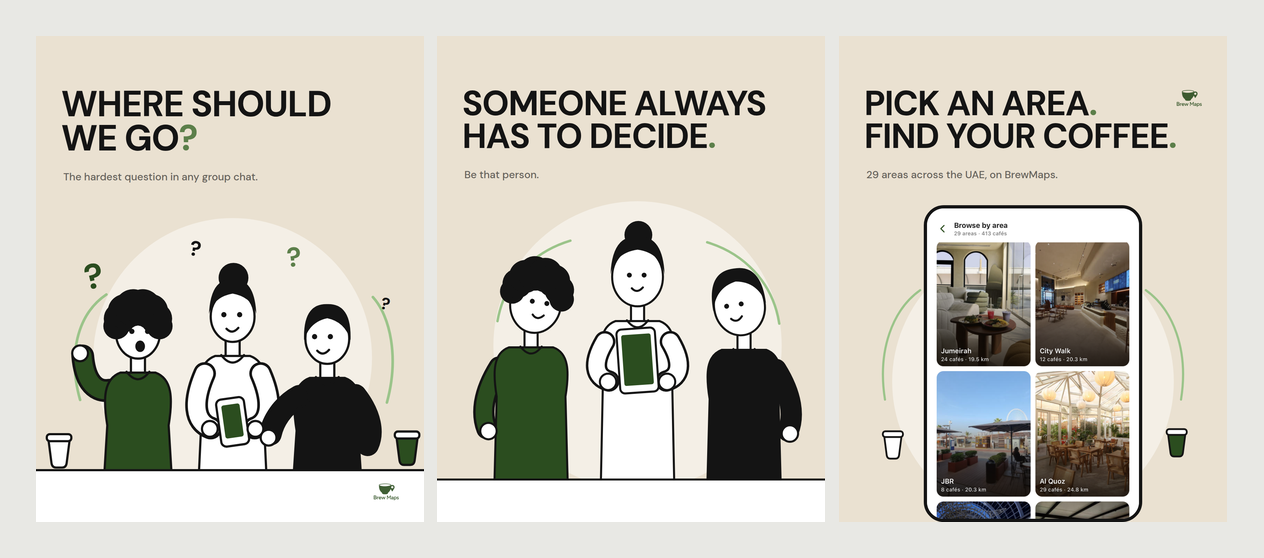
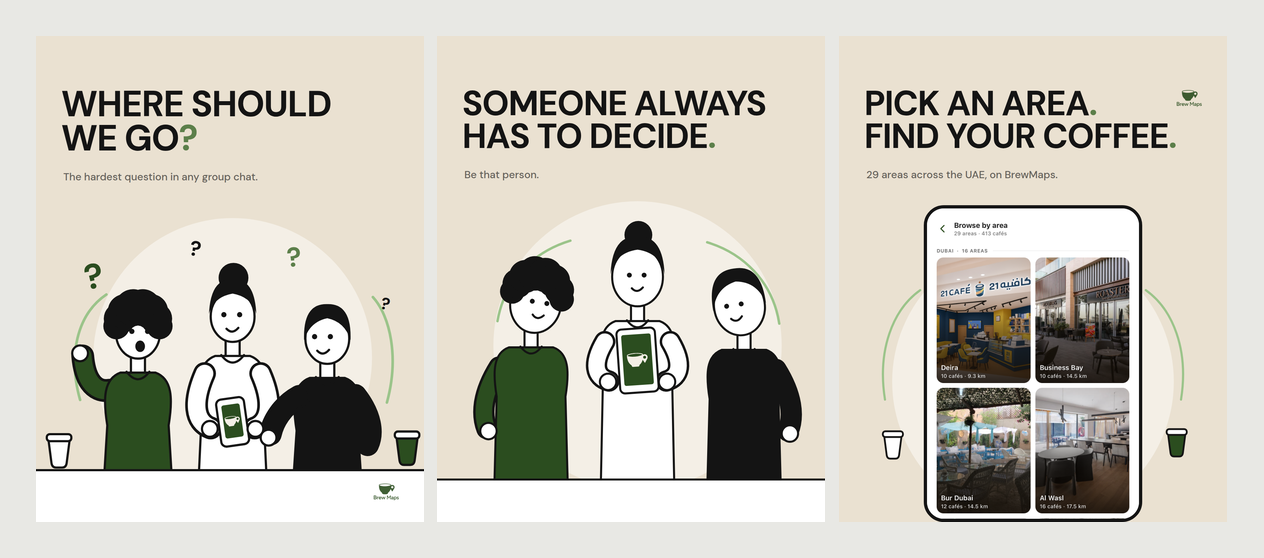
Put the BrewMaps mark on the illustrated phone, swap slide 3 screen
The drawn phone now carries the cup mark in cream on slides 1 and 2, so
the object the group is looking at is recognisably the app before slide
3 reveals it. Slide 3 moves to the Dubai section of Browse by area:
Deira, Business Bay, Bur Dubai and Al Wasl, a full grid with no gaps.

Claude-Session: https://claude.ai/code/session_01UCKVHF8Bj15Neb29ir5cAN

Changed region(s): [[0.7405, 0.4265, 0.8948, 0.9444], [0.4937, 0.6398, 0.5245, 0.6703], [0.1543, 0.7312, 0.1851, 0.7616]]

diff --git a/marketing/instagram/2026-09-where-should-we-go/source/illo-2.html b/marketing/instagram/2026-09-where-should-we-go/source/illo-2.html
@@ -22,7 +22,7 @@
 <ellipse cx="556" cy="738" rx="62" ry="72" fill="#FFFFFF" stroke="#141414" stroke-width="5"/><circle cx="558" cy="636" r="34" fill="#141414"/><path d="M 490,732 Q 494,636 556,640 Q 618,636 622,732 Q 612,680 556,672 Q 500,680 490,732 Z" fill="#141414"/><circle cx="536" cy="734" r="6" fill="#141414"/><circle cx="572" cy="734" r="6" fill="#141414"/><path d="M 542,766 Q 555,780 569,764" fill="none" stroke="#141414" stroke-width="5" stroke-linecap="round"/>
 <path d="M 476,896 C 444,950 452,982 486,992" fill="none" stroke="#141414" stroke-width="52" stroke-linecap="round" stroke-linejoin="round"/><path d="M 476,896 C 444,950 452,982 486,992" fill="none" stroke="#FFFFFF" stroke-width="40" stroke-linecap="round" stroke-linejoin="round"/>
 <path d="M 636,896 C 668,950 660,982 626,992" fill="none" stroke="#141414" stroke-width="52" stroke-linecap="round" stroke-linejoin="round"/><path d="M 636,896 C 668,950 660,982 626,992" fill="none" stroke="#FFFFFF" stroke-width="40" stroke-linecap="round" stroke-linejoin="round"/>
-<g transform="rotate(-4 556 942)"><rect x="509.0" y="864.0" width="94" height="156" rx="12" fill="#FFFFFF" stroke="#141414" stroke-width="5"/><rect x="520.0" y="878.0" width="72" height="124" rx="5" fill="#2B4D1F"/></g>
+<g transform="rotate(-4 556 942)"><rect x="509.0" y="864.0" width="94" height="156" rx="12" fill="#FFFFFF" stroke="#141414" stroke-width="5"/><rect x="520.0" y="878.0" width="72" height="124" rx="5" fill="#2B4D1F"/><image href="src/mark-cream.png" x="530.62" y="923.1920529801324" width="50.760000000000005" height="33.6158940397351"/></g>
 <circle cx="484" cy="994" r="20" fill="#FFFFFF" stroke="#141414" stroke-width="5"/><circle cx="628" cy="994" r="20" fill="#FFFFFF" stroke="#141414" stroke-width="5"/>
 
 <path d="M 0,1232 L 1080,1232 L 1080,1350 L 0,1350 Z" fill="#FFFFFF" stroke="none"/>

diff --git a/marketing/instagram/2026-09-where-should-we-go/source/illo-1.html b/marketing/instagram/2026-09-where-should-we-go/source/illo-1.html
@@ -27,7 +27,7 @@
 <path d="M 482,986 C 454,1050 458,1096 496,1110" fill="none" stroke="#141414" stroke-width="52" stroke-linecap="round" stroke-linejoin="round"/><path d="M 482,986 C 454,1050 458,1096 496,1110" fill="none" stroke="#FFFFFF" stroke-width="40" stroke-linecap="round" stroke-linejoin="round"/>
 <path d="M 610,986 C 638,1050 634,1096 596,1110" fill="none" stroke="#141414" stroke-width="52" stroke-linecap="round" stroke-linejoin="round"/><path d="M 610,986 C 638,1050 634,1096 596,1110" fill="none" stroke="#FFFFFF" stroke-width="40" stroke-linecap="round" stroke-linejoin="round"/>
 <path d="M 698,1038 C 658,1060 638,1096 632,1124" fill="none" stroke="#141414" stroke-width="52" stroke-linecap="round" stroke-linejoin="round"/><path d="M 698,1038 C 658,1060 638,1096 632,1124" fill="none" stroke="#141414" stroke-width="40" stroke-linecap="round" stroke-linejoin="round"/>
-<g transform="rotate(-8 546 1096)"><rect x="514.0" y="1042.0" width="64" height="108" rx="12" fill="#FFFFFF" stroke="#141414" stroke-width="5"/><rect x="525.0" y="1056.0" width="42" height="76" rx="5" fill="#2B4D1F"/></g>
+<g transform="rotate(-8 546 1096)"><rect x="514.0" y="1042.0" width="64" height="108" rx="12" fill="#FFFFFF" stroke="#141414" stroke-width="5"/><rect x="525.0" y="1056.0" width="42" height="76" rx="5" fill="#2B4D1F"/><image href="src/mark-cream.png" x="528.72" y="1082.5562913907286" width="34.56" height="22.887417218543046"/></g>
 <circle cx="494" cy="1112" r="18" fill="#FFFFFF" stroke="#141414" stroke-width="5"/><circle cx="598" cy="1112" r="18" fill="#FFFFFF" stroke="#141414" stroke-width="5"/>
 <circle cx="628" cy="1132" r="18" fill="#FFFFFF" stroke="#141414" stroke-width="5"/>
 <circle cx="198" cy="940" r="18" fill="#FFFFFF" stroke="#141414" stroke-width="5"/>

diff --git a/marketing/instagram/2026-09-where-should-we-go/source/illo-3.html b/marketing/instagram/2026-09-where-should-we-go/source/illo-3.html
@@ -11,5 +11,5 @@
 </svg></div>
 <h1 class="h abs" style="left:70px;top:142px;font-size:96px;color:#141414;">Pick an area<span style="color:#5C7F4A">.</span><br>Find your coffee<span style="color:#5C7F4A">.</span></h1>
 <div class="abs" style="left:76px;top:366px;font-size:29px;font-weight:500;opacity:.62;">29 areas across the UAE, on BrewMaps.</div>
-<div class="screen"><img src="src/browse-top.png"></div>
+<div class="screen"><img src="src/browse-dubai.png"></div>
 <img class="abs" src="src/logo-green.png" style="right:70px;top:150px;width:70px;opacity:.9;">

diff --git a/marketing/instagram/2026-09-where-should-we-go/source/illo.py b/marketing/instagram/2026-09-where-should-we-go/source/illo.py
@@ -58,10 +58,14 @@ def arm(d,fill,w=40):
 def hand(x,y,r=20):
     return f'<circle cx="{x}" cy="{y}" r="{r}" fill="{WHITE}" stroke="{LINE}" stroke-width="{SW}"/>'
 
-def phone(x,y,w=64,h=108,tilt=-8):
-    return (f'<g transform="rotate({tilt} {x} {y})">'
-            f'<rect x="{x-w/2}" y="{y-h/2}" width="{w}" height="{h}" rx="12" fill="{WHITE}" stroke="{LINE}" stroke-width="{SW}"/>'
-            f'<rect x="{x-w/2+11}" y="{y-h/2+14}" width="{w-22}" height="{h-32}" rx="5" fill="{GREEN}"/></g>')
+def phone(x,y,w=64,h=108,tilt=-8,icon=None):
+    g=(f'<g transform="rotate({tilt} {x} {y})">'
+       f'<rect x="{x-w/2}" y="{y-h/2}" width="{w}" height="{h}" rx="12" fill="{WHITE}" stroke="{LINE}" stroke-width="{SW}"/>'
+       f'<rect x="{x-w/2+11}" y="{y-h/2+14}" width="{w-22}" height="{h-32}" rx="5" fill="{GREEN}"/>')
+    if icon:
+        iw=w*0.54; ih=iw/1.51
+        g+=f'<image href="{icon}" x="{x-iw/2}" y="{y-ih/2-2}" width="{iw}" height="{ih}"/>'
+    return g+'</g>' 
 
 def cup(x,y,fill=WHITE,s=1.0):
     w=24*s; h=52*s

diff --git a/marketing/instagram/2026-09-where-should-we-go/source/gen_illo3.py b/marketing/instagram/2026-09-where-should-we-go/source/gen_illo3.py
@@ -13,6 +13,6 @@ html=f'''<link rel="stylesheet" href="base.css">
 <div class="abs" style="left:0;top:0;">{svg}</div>
 <h1 class="h abs" style="left:70px;top:142px;font-size:96px;color:{LINE};">Pick an area<span style="color:{MID}">.</span><br>Find your coffee<span style="color:{MID}">.</span></h1>
 <div class="abs" style="left:76px;top:366px;font-size:29px;font-weight:500;opacity:.62;">29 areas across the UAE, on BrewMaps.</div>
-<div class="screen"><img src="src/browse-top.png"></div>
+<div class="screen"><img src="src/browse-dubai.png"></div>
 <img class="abs" src="src/logo-green.png" style="right:70px;top:150px;width:70px;opacity:.9;">'''
 open('illo-3.html','w').write(html)

diff --git a/marketing/instagram/2026-09-where-should-we-go/source/gen_illo2.py b/marketing/instagram/2026-09-where-should-we-go/source/gen_illo2.py
@@ -32,7 +32,7 @@ scene=f'''
 {head(B,Bh,RX,RY)}{bun(B,Bh,RX,RY)}{face(B,Bh,look=0)}
 {arm(f'M {B-80},{Bs+50} C {B-112},{Bs+104} {B-104},{Bs+136} {B-70},{Bs+146}', WHITE)}
 {arm(f'M {B+80},{Bs+50} C {B+112},{Bs+104} {B+104},{Bs+136} {B+70},{Bs+146}', WHITE)}
-{phone(B,Bs+96,94,156,-4)}
+{phone(B,Bs+96,94,156,-4,icon="src/mark-cream.png")}
 {hand(B-72,Bs+148,20)}{hand(B+72,Bs+148,20)}
 
 <path d="M 0,{TOP} L 1080,{TOP} L 1080,1350 L 0,1350 Z" fill="{WHITE}" stroke="none"/>

diff --git a/marketing/instagram/2026-09-where-should-we-go/source/gen_illo.py b/marketing/instagram/2026-09-where-should-we-go/source/gen_illo.py
@@ -33,7 +33,7 @@ scene=f'''
 {arm(f'M {B-64},{Bs+40} C {B-92},{Bs+104} {B-88},{Bs+150} {B-50},{Bs+164}', WHITE)}
 {arm(f'M {B+64},{Bs+40} C {B+92},{Bs+104} {B+88},{Bs+150} {B+50},{Bs+164}', WHITE)}
 {arm(f'M {C-64},{Cs+42} C {C-104},{Cs+64} {C-124},{Cs+100} {C-130},{Cs+128}', LINE)}
-{phone(B,Bs+150)}
+{phone(B,Bs+150,icon='src/mark-cream.png')}
 {hand(B-52,Bs+166,18)}{hand(B+52,Bs+166,18)}
 {hand(C-134,Cs+136,18)}
 {hand(A-132,As-44,18)}

diff --git a/marketing/instagram/2026-09-where-should-we-go/README.md b/marketing/instagram/2026-09-where-should-we-go/README.md
@@ -23,10 +23,11 @@ Red from the reference is replaced by forest green. No third hue anywhere.
 |---|---|---|
 | 1 | Where should we go? / The hardest question in any group chat. | Three figures at a table, phones out, question marks |
 | 2 | Someone always has to decide. / Be that person. | Tighter crop, side figures tucked behind and leaning in, phone raised |
-| 3 | Pick an area. Find your coffee. / 29 areas across the UAE, on BrewMaps. | The real Browse by Area screen inside a hand-drawn phone frame |
+| 3 | Pick an area. Find your coffee. / 29 areas across the UAE, on BrewMaps. | The real Browse by Area screen, Dubai section, inside a hand-drawn phone frame |
 
-The device that ties them together: the illustrated phone on slides 1 and 2 becomes a
-drawn phone frame on slide 3, holding the real interface. Illustration carries the human
+The device that ties them together: the illustrated phone carries the BrewMaps cup mark
+in cream on slides 1 and 2, then becomes a drawn phone frame on slide 3 holding the real
+interface. The same object, three states. Illustration carries the human
 setup, the real app is the punchline, and the two visual systems have separate jobs
 instead of competing.
 
